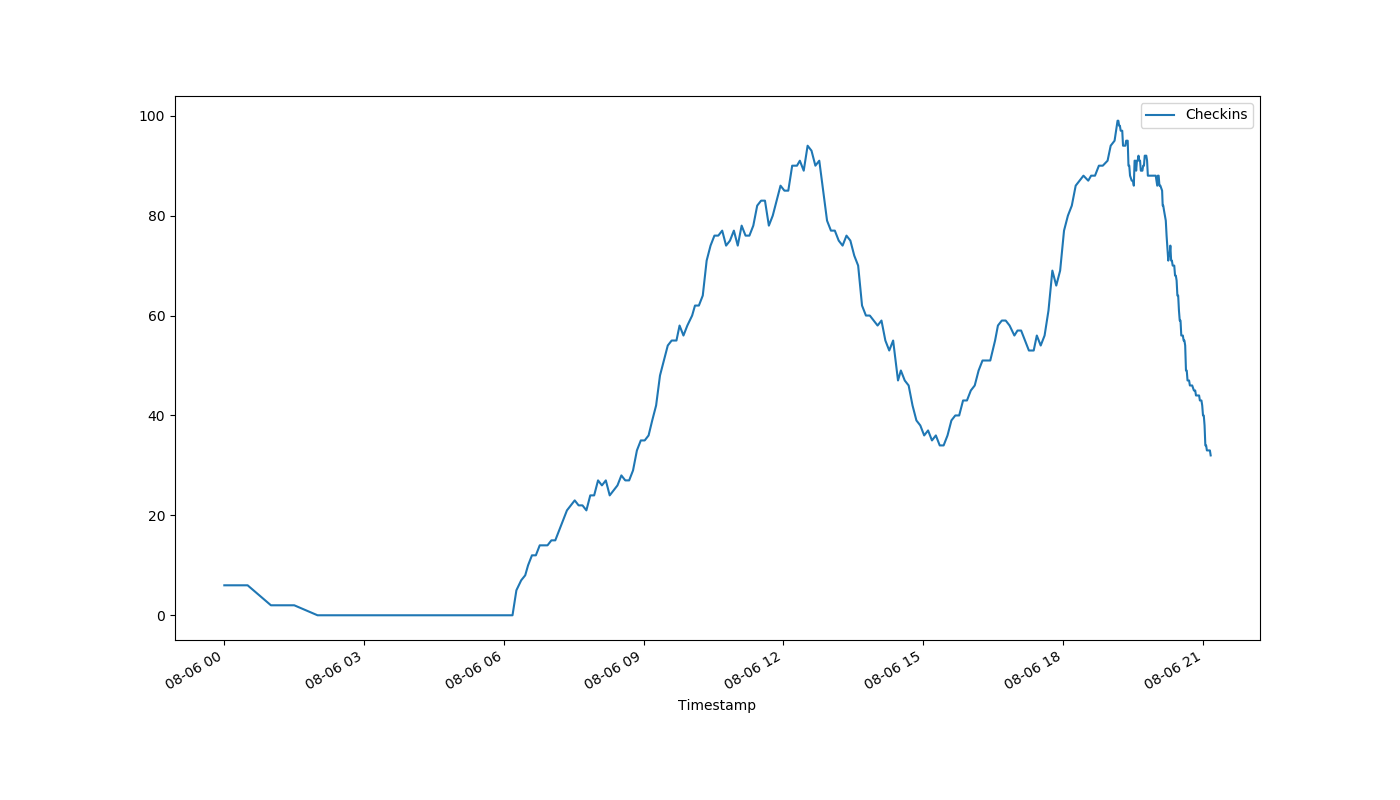
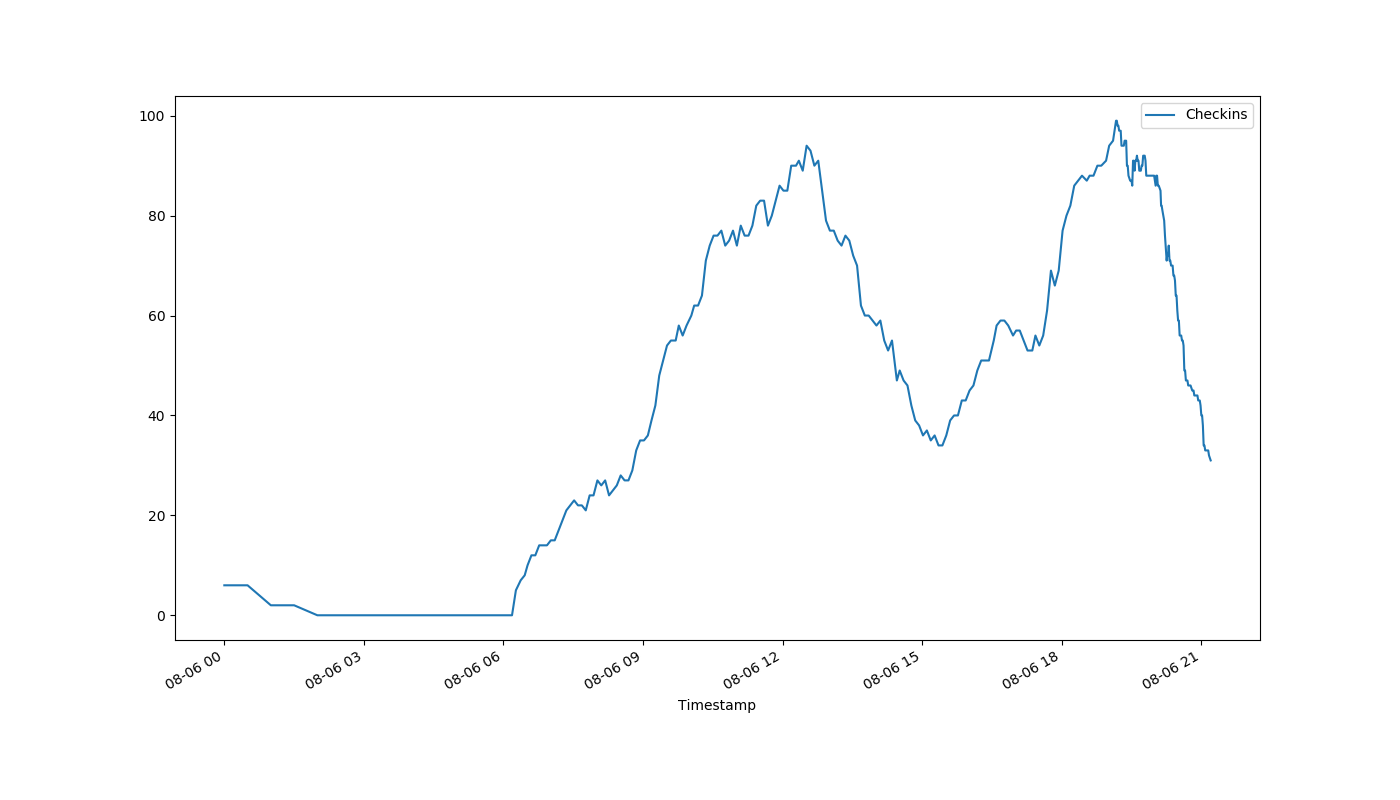
auto-Aug-06-21:13:29

diff --git a/index.html b/index.html
@@ -1,1 +1,1 @@
-<!DOCTYPE html><html><head><meta http-equiv="refresh" content="15"><link rel='stylesheet' href='holmcurrent.css'></head><body><p id='count'>32</p><div id='graph-wrap'><img id='graph' src='holmgraph-Aug-06.png'></div><p id='updated'>Last updated 21:11:02 / 21:10:04</p></body></html>
+<!DOCTYPE html><html><head><meta http-equiv="refresh" content="15"><link rel='stylesheet' href='holmcurrent.css'></head><body><p id='count'>31</p><div id='graph-wrap'><img id='graph' src='holmgraph-Aug-06.png'></div><p id='updated'>Last updated 21:13:02 / 21:12:14</p></body></html>
